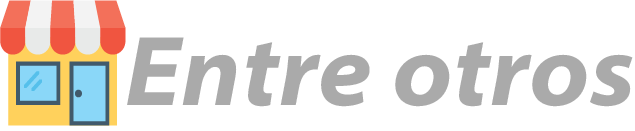
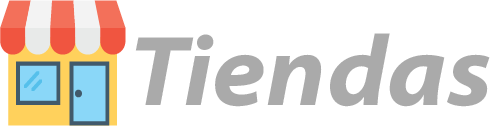
ISweb 2da subida

diff --git a/index.html b/index.html
@@ -181,9 +181,6 @@
                                     <img class="img-fluid" src="images/wheel.png" id="wheel" alt="alternative">
                                 </div>
                                 <div class="swiper-slide">
-                                    <img class="img-fluid" src="images/services.png" id="services" alt="alternative">
-                                </div>
-                                <div class="swiper-slide">
                                     <img class="img-fluid" src="images/shoes.png" id="shoes" alt="alternative">
                                 </div>
                                 <div class="swiper-slide">
@@ -217,8 +214,7 @@
         <div class="container">
             <div class="row">
                 <div class="col-lg-12">
-                    <div class="above-heading">NUESTROS SERVICIOS</div>
-                    <h2 class="h2-heading">Desarrollo a Medida</h2>
+                    <h2 class="h2-heading">NUESTROS SERVICIOS</h2>
                     <h4 class="pb-5" style="color: gray;">Dependiendo de sus necesidades tambien podemos hacer
                         desarrollos a su medida para adaptar el sistema a sus requerimientos</h4>
                 </div> <!-- end of col -->
@@ -234,8 +230,7 @@
                         <div class="card-body">
                             <h4 class="card-title">Desarrollamos aplicativos de Escritorio y Aplicativos para Android.
                             </h4>
-                            <p>It's very easy to start creating email lists for your marketing actions. Just create your
-                                Tivo account</p>
+                            <p>Contamos con la experiencia y herramientas para desarrollar cualquier aplicativo de escritorio o movil que requiera su organizacion.</p>
                         </div>
                     </div>
                     <!-- end of card -->
@@ -247,8 +242,7 @@
                         </div>
                         <div class="card-body">
                             <h4 class="card-title">Desarrollamos Aplicativos WEB o WEB Sites para su Empresa.</h4>
-                            <p>Campaigns is a feature we've developed since the beginning because it's at the core of
-                                Tivo's functionalities</p>
+                            <p>Si carece de presencia WEB, permitanos ayudarlo. Podemos desarrollar su WEB SITE para que el Mundo le conozca.</p>
                         </div>
                     </div>
                     <!-- end of card -->
@@ -260,8 +254,7 @@
                         </div>
                         <div class="card-body">
                             <h4 class="card-title">Desarrollamos en T-SQL para Aplicativos Bases de Datos..</h4>
-                            <p>Tivo collects customer data in order to help you analyse different situations and take
-                                required action</p>
+                            <p>Somos expertos en Base de Datos relacionales y no relacionales, realizamos las migraciones que necesite y optimizamos su Base de Datos.</p>
                         </div>
                     </div>
                     <!-- end of card -->
@@ -278,10 +271,8 @@
         <div class="container">
             <div class="row">
                 <div class="col-lg-12">
-                    <div class="above-heading">CARACTERISTICAS</div>
-                    <h2 class="h2-heading">Marketing Automation</h2>
-                    <p class="p-heading">Take your business strategy to the next level and automatize your marketing
-                        tasks to save time for product development. Tivo can provide results in less than 2 weeks</p>
+                    <h2 class="h2-heading">NUESTRO SOPORTE</h2>
+                    <p class="p-heading">Tenemos más de 10 años atendiendo clientes en todo el Pais, brindandole soporte Presencial, Remoto y ofreciendole consultorías administrativa para optimizar su gestión y tengan un negocio rentable.</p>
                 </div> <!-- end of col -->
             </div> <!-- end of row -->
             <div class="row">
@@ -602,8 +593,7 @@
         <div class="container">
             <div class="row">
                 <div class="col-lg-12">
-                    <div class="above-heading">PRECIOS</div>
-                    <h2 class="h2-heading">Nuestras Licencias</h2>
+                    <h2 class="h2-heading">NUESTRAS LICENCIAS</h2>
                     <p class="pb-3">REINSTALACION SISTEMA SERVIDOR: USD $50 <br>
                         INSTALACION EQUIPO ADICIONAL: USD $30 <br>
                         HORA DE SOPORTE: USD $15

diff --git a/css/styles.css b/css/styles.css
@@ -926,7 +926,8 @@ input[type='checkbox'] {
 }
 
 #store{
-	padding-top: 5px;
+	padding-top: 0px;
+	width: 170px;
 }
 
 
@@ -2206,7 +2207,7 @@ a:hover.back-to-top {
 	}
   }
 	
-  /* Carrusel para phone y mas servicios */
+  /* Carrusel para pantalla pequeña y mas servicios */
 
 @media screen and (max-width: 768px) {
 	.carrusel {
@@ -2231,3 +2232,47 @@ a:hover.back-to-top {
 	}
 
 }
+
+/* Swiper de empresas */
+@media screen and (max-width: 768px) {
+	#pelu{
+		padding-top: 0px;
+		height: 65px;
+	}
+
+	#fuel{
+		padding-top: 0px;
+		height: 65px;
+	}
+
+	#perfu{
+		padding-top: 0px;
+		height: 65px;
+	}
+
+	#wheel{
+		padding-top: 8px;
+		height: 70px;
+	}
+
+	#shoes{
+		padding-top: 15px;
+		height: 71px;
+	}
+
+	#farmacy{
+		padding-top: 3px;
+		height: 71px;
+	}
+
+	#screwdriver{
+		padding-top: 5px;
+		height: 68px;
+	}
+
+	#store{
+		padding-top: 0px;
+		width: 250px;
+		height: 65px;
+	}
+	}
